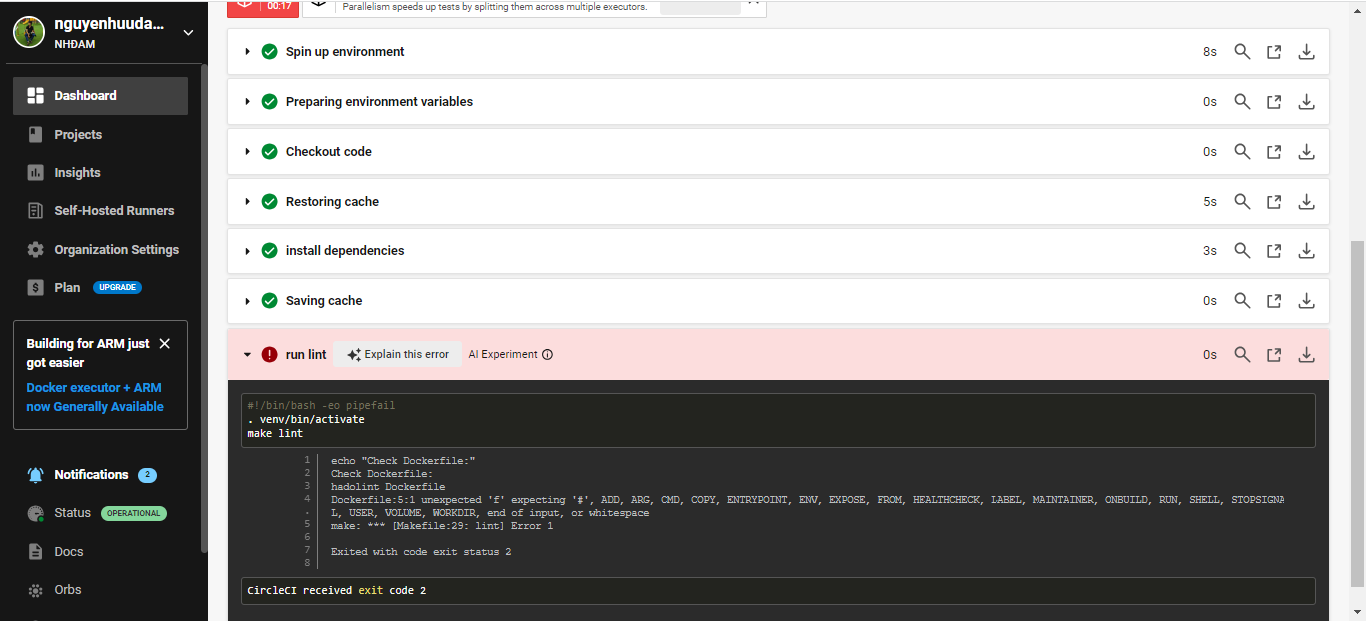
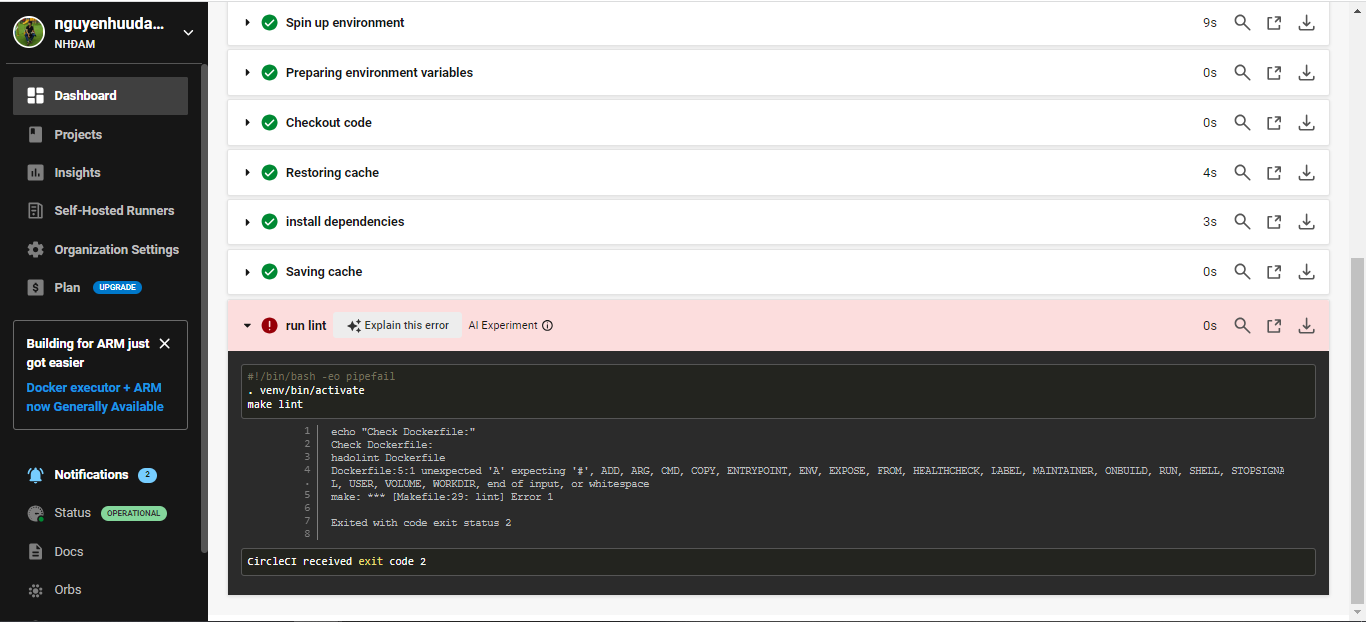
circle failed

diff --git a/app.py b/app.py
@@ -1,7 +1,7 @@
 from flask import Flask, request, jsonify
 from flask.logging import create_logger
 import logging
-
+aaaa
 import pandas as pd
 from sklearn.externals import joblib
 from sklearn.preprocessing import StandardScaler
